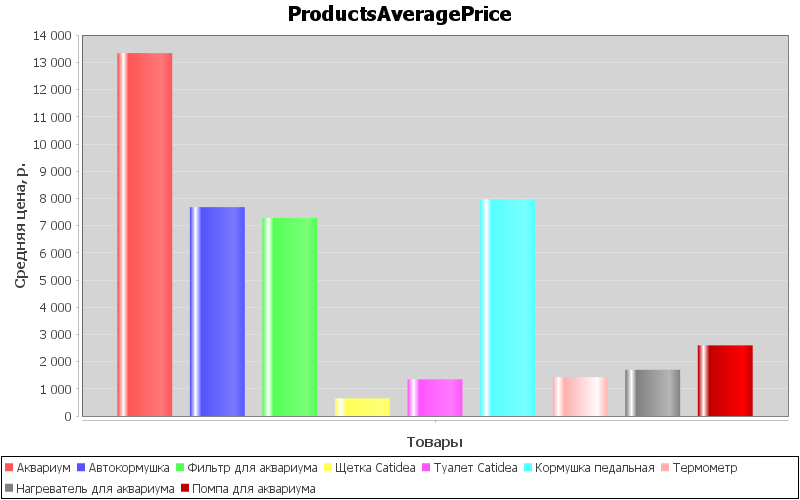
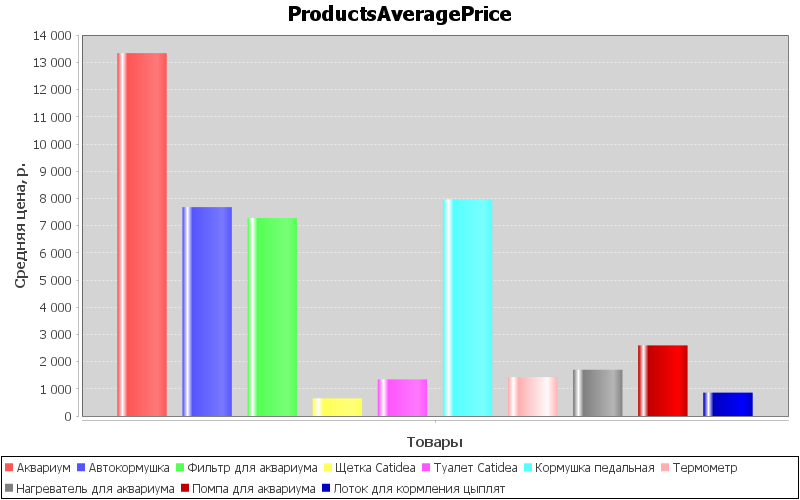
Added all tasks screenshots

Changed region(s): [[0.2812, 0.39, 0.9688, 0.84], [0.125, 0.09, 0.25, 0.84], [0.4062, 0.96, 0.625, 0.99]]

diff --git a/README.md b/README.md
@@ -1,4 +1,6 @@
-## Выборка 5 самых дорогих товаров в таблице Products
-![TopByPrice.png](TopByPrice.png)
-## Средняя цена инфракрасной лампы в таблице Products
+## Гистограмма средних цен товаров, имеющих несколько разновидностей
+![ProductsAveragePrice.png](ProductsAveragePrice.png)
+## Средняя стоимость инфракрасной лампы
 ![LampAvgPrice.png](LampAvgPrice.png)
+## Выборка 5 самых дорогих товаров
+![TopByPrice.png](TopByPrice.png)
